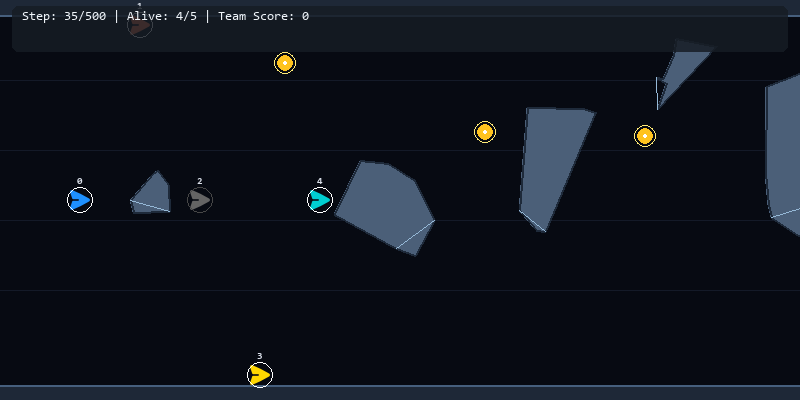
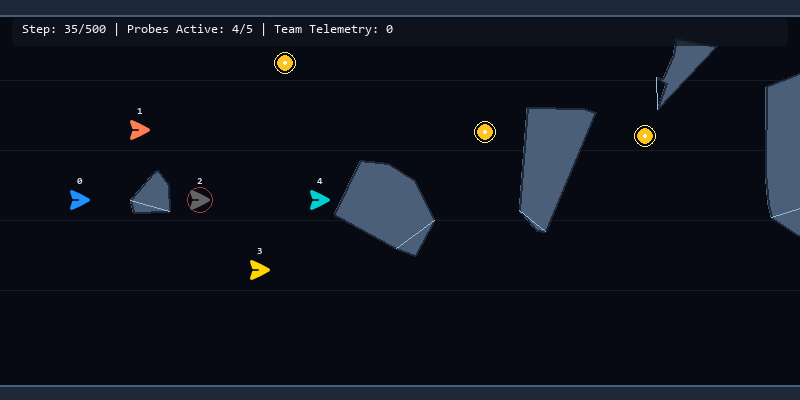
Fix NameError in main.py, modernize asteroid collision handling, and refine rocket probe rendering

diff --git a/main.py b/main.py
@@ -1,19 +1,22 @@
 """
-ScrollSwarm - 2D Interactive Multi-Agent Side-Scroller
+ScrollSwarm - 2D Interactive Multi-Agent Saturn Ring Surfing Simulation
 
 Features:
-  - 1 to 10 agents (default 5, configurable via --num-agents / -n)
-  - Triangle agents pointing RIGHT
-  - 1 px/step scrolling, 30 FPS, light green plain land, boundary mountain ridges
-  - Collision causes instant termination
-  - Interactive selection (TAB or keys 1-9 to switch focused agent)
+  - 1 to 10 rocket probes (default 5, configurable via --num-agents / -n)
+  - SVG vector rocket probe sprites with per-agent team colors
+  - 1 px/step scrolling, 30 FPS, cosmic void, radiation sheath boundaries
+  - Dynamic polygon asteroids executing Keplerian drift and Hill's epicyclic vertical oscillations
+  - Collision causes instant structural termination
+  - Interactive selection (TAB or keys 1-9 to switch focused probe)
 
 Controls:
-  - UP Arrow / W   : Move focused agent up (k = 5 px)
-  - DOWN Arrow / S : Move focused agent down (k = 5 px)
-  - TAB            : Cycle active focused agent
-  - 1-9            : Directly select Agent #1 to #9
-  - A              : Step all alive agents synchronously
+  - UP Arrow / W   : Move focused probe up (thrust k = 5 px)
+  - DOWN Arrow / S : Move focused probe down (thrust k = 5 px)
+  - TAB            : Cycle active focused probe
+  - 1-9            : Directly select Probe #1 to #9
+  - A              : Step all alive probes synchronously
+  - V              : Toggle 7-ray LiDAR rangefinder visualization
+  - C              : Toggle communication graph links
   - R              : Restart simulation
   - SPACE          : Pause / Resume
   - ESC            : Quit
@@ -141,21 +144,21 @@ def draw_agents(surface: pygame.Surface, agents: List[Agent], selected_idx: int,
         sw, sh = sprite.get_size()
         surface.blit(sprite, (int(agent.x - sw // 2), int(agent.y - sh // 2)))
 
-        # Highlight currently selected agent with high-contrast dual focus rings
-        if idx == selected_idx:
-            pygame.draw.circle(surface, (255, 255, 255), (int(agent.x), int(agent.y)), 15, width=2)
-            pygame.draw.circle(surface, (30, 144, 255), (int(agent.x), int(agent.y)), 17, width=1)
-        else:
-            ring_col = (200, 210, 225) if agent.alive else (70, 70, 70)
-            pygame.draw.circle(surface, ring_col, (int(agent.x), int(agent.y)), 13, width=1)
+        # Highlight currently selected probe with distinct dual focus rings
+        if idx == selected_idx and agent.alive:
+            pygame.draw.circle(surface, (255, 255, 255), (int(agent.x), int(agent.y)), 16, width=2)
+            pygame.draw.circle(surface, (30, 144, 255), (int(agent.x), int(agent.y)), 18, width=1)
+        elif not agent.alive:
+            # Subtle red indicator for terminated probes
+            pygame.draw.circle(surface, (180, 50, 50), (int(agent.x), int(agent.y)), 13, width=1)
 
-        # ID label above agent
+        # ID label above probe
         lbl = font.render(str(agent.agent_id), True, (220, 225, 235))
         surface.blit(lbl, (int(agent.x - 3), int(agent.y - sh // 2 - 12)))
 
 
 def main() -> None:
-    parser = argparse.ArgumentParser(description="ScrollSwarm 2D Simulation")
+    parser = argparse.ArgumentParser(description="ScrollSwarm 2D Simulation (Saturn Ring Surfing)")
     parser.add_argument(
         "-n", "--num-agents",
         type=int,
@@ -179,7 +182,7 @@ def main() -> None:
 
     config = MapConfig(width=800, height=400, fps=30)
     screen = pygame.display.set_mode((config.width, config.height))
-    pygame.display.set_caption(f"ScrollSwarm - Swarm Size: {num_agents}")
+    pygame.display.set_caption(f"ScrollSwarm - Saturn Ring Surfing ({num_agents} Probes)")
     clock = pygame.time.Clock()
     font = pygame.font.SysFont("Consolas", 13)
     id_font = pygame.font.SysFont("Consolas", 10, bold=True)
@@ -223,6 +226,7 @@ def main() -> None:
                         scrolling_map=scrolling_map,
                         step_size=5,
                     )
+                    selected_idx = min(selected_idx, len(agents) - 1)
 
         # Simulation step
         if not paused:
@@ -248,13 +252,13 @@ def main() -> None:
             for agent in agents:
                 if agent.alive:
                     agent.check_collision_mountain(scrolling_map)
-                    agent.check_collision_trees(scrolling_map.trees)
+                    agent.check_collision_obstacles(scrolling_map.asteroids)
                     agent.check_target_collection(scrolling_map.targets)
 
         # Rendering
-        screen.fill(COLOR_LAND)
+        screen.fill(COLOR_SPACE_VOID)
         draw_topography(screen, scrolling_map)
-        draw_trees(screen, scrolling_map)
+        draw_asteroids(screen, scrolling_map)
         draw_targets(screen, scrolling_map)
 
         if show_sensors and agents[selected_idx].alive:
@@ -266,9 +270,9 @@ def main() -> None:
         draw_agents(screen, agents, selected_idx, id_font)
 
         # HUD Overlay with translucent dark backdrop for maximum legibility
-        hud_bg = pygame.Surface((config.width - 24, 46), pygame.SRCALPHA)
-        pygame.draw.rect(hud_bg, (22, 28, 36, 215), (0, 0, config.width - 24, 46), border_radius=6)
-        screen.blit(hud_bg, (12, 6))
+        hud_bg = pygame.Surface((config.width - 24, 42), pygame.SRCALPHA)
+        pygame.draw.rect(hud_bg, (16, 22, 32, 190), (0, 0, config.width - 24, 42), border_radius=5)
+        screen.blit(hud_bg, (12, 18))
 
         alive_count = sum(1 for a in agents if a.alive)
         team_score = sum(a.score for a in agents)
@@ -277,30 +281,30 @@ def main() -> None:
         status_color = (80, 230, 130) if focused_agent.alive else (255, 90, 90)
 
         # Line 1: Swarm & Focused Agent Telemetry
-        hud_prefix = f"Agents Alive: {alive_count}/{num_agents} | Team Score: {team_score} | Focused: Agent #{focused_agent.agent_id} ("
+        hud_prefix = f"Probes Active: {alive_count}/{num_agents} | Team Telemetry: {team_score} | Focused: Probe #{focused_agent.agent_id} ("
         txt_prefix = font.render(hud_prefix, True, (240, 245, 250))
         txt_status = font.render(status_str, True, status_color)
         hud_suffix = f", Score: {focused_agent.score})"
         txt_suffix = font.render(hud_suffix, True, (240, 245, 250))
 
         hud_line2 = (
-            f"[W/S] Move | [TAB/1-9] Select | [A] All | [V] Rays | [C] Comm ({args.comm_topology}) | [R] Reset"
+            f"[W/S] Thrust | [TAB/1-9] Focus | [A] All | [V] LiDAR | [C] Comm ({args.comm_topology}) | [R] Restart"
         )
         txt_line2 = font.render(hud_line2, True, (175, 185, 200))
 
         # Blit telemetry with highlighted status
         cur_x = 22
-        screen.blit(txt_prefix, (cur_x, 10))
+        screen.blit(txt_prefix, (cur_x, 22))
         cur_x += txt_prefix.get_width()
-        screen.blit(txt_status, (cur_x, 10))
+        screen.blit(txt_status, (cur_x, 22))
         cur_x += txt_status.get_width()
-        screen.blit(txt_suffix, (cur_x, 10))
+        screen.blit(txt_suffix, (cur_x, 22))
 
-        screen.blit(txt_line2, (22, 28))
+        screen.blit(txt_line2, (22, 38))
 
         if paused:
-            pause_surface = font.render("-- PAUSED --", True, (200, 0, 0))
-            screen.blit(pause_surface, (config.width // 2 - 40, 8))
+            pause_surface = font.render("-- PAUSED --", True, (220, 50, 50))
+            screen.blit(pause_surface, (config.width // 2 - 40, 68))
 
         pygame.display.flip()
         clock.tick(config.fps)

diff --git a/scrollswarm/env.py b/scrollswarm/env.py
@@ -240,9 +240,9 @@ class ScrollSwarmEnv(ParallelEnv):
                 # Check mountain collision
                 if agent.check_collision_mountain(self.scrolling_map):
                     collision_type = "mountain"
-                # Check tree collision
-                elif agent.check_collision_trees(self.scrolling_map.trees):
-                    collision_type = "tree"
+                # Check asteroid obstacle collision
+                elif agent.check_collision_obstacles(self.scrolling_map.asteroids):
+                    collision_type = "asteroid"
 
                 # Check target collection
                 collected = agent.check_target_collection(self.scrolling_map.targets)
@@ -375,27 +375,27 @@ class ScrollSwarmEnv(ParallelEnv):
             sw, sh = sprite.get_size()
             surface.blit(sprite, (int(agent.x - sw // 2), int(agent.y - sh // 2)))
 
-            # Status ring around probe (white when alive, subtle dark when dead)
-            ring_col = (255, 255, 255) if agent.alive else (70, 70, 70)
-            pygame.draw.circle(surface, ring_col, (int(agent.x), int(agent.y)), 13, width=1)
+            # Draw indicator only when dead
+            if not agent.alive:
+                pygame.draw.circle(surface, (180, 50, 50), (int(agent.x), int(agent.y)), 13, width=1)
 
             # ID label above probe
             lbl = self._id_font.render(str(agent.agent_id), True, (220, 225, 235))
             surface.blit(lbl, (int(agent.x - 3), int(agent.y - sh // 2 - 12)))
 
         # 5. Telemetry HUD
-        hud_bg = pygame.Surface((w - 24, 46), pygame.SRCALPHA)
-        pygame.draw.rect(hud_bg, (22, 28, 36, 215), (0, 0, w - 24, 46), border_radius=6)
-        surface.blit(hud_bg, (12, 6))
+        hud_bg = pygame.Surface((w - 24, 28), pygame.SRCALPHA)
+        pygame.draw.rect(hud_bg, (16, 22, 32, 185), (0, 0, w - 24, 28), border_radius=4)
+        surface.blit(hud_bg, (12, 18))
 
         alive_count = sum(1 for a in all_agents if a.alive)
         team_score = sum(a.score for a in all_agents)
         txt1 = self._font.render(
-            f"Step: {self.step_count}/{self.max_cycles} | Alive: {alive_count}/{self._num_agents} | Team Score: {team_score}",
+            f"Step: {self.step_count}/{self.max_cycles} | Probes Active: {alive_count}/{self._num_agents} | Team Telemetry: {team_score}",
             True,
             (240, 245, 250),
         )
-        surface.blit(txt1, (22, 10))
+        surface.blit(txt1, (22, 23))
 
         if self.render_mode == "human":
             pygame.display.flip()

diff --git a/scripts/generate_screenshot.py b/scripts/generate_screenshot.py
@@ -11,11 +11,12 @@ def main():
     # Step forward a few frames so agents and obstacles are in dynamic flow
     for step_i in range(35):
         actions = {a: 1 for a in env.agents}  # Action.STAY
-        # Jitter a few agents up and down for visual appeal
-        if "agent_1" in actions:
-            actions["agent_1"] = 0  # UP
-        if "agent_3" in actions:
-            actions["agent_3"] = 2  # DOWN
+        # Gentle vertical spreading
+        if step_i < 14:
+            if "agent_1" in actions:
+                actions["agent_1"] = 0  # UP
+            if "agent_3" in actions:
+                actions["agent_3"] = 2  # DOWN
         env.step(actions)
 
     env.render()

diff --git a/docs/api/map.md b/docs/api/map.md
@@ -5,3 +5,4 @@
 ::: scrollswarm.map.MapConfig
 
 ::: scrollswarm.items.Asteroid
+``
